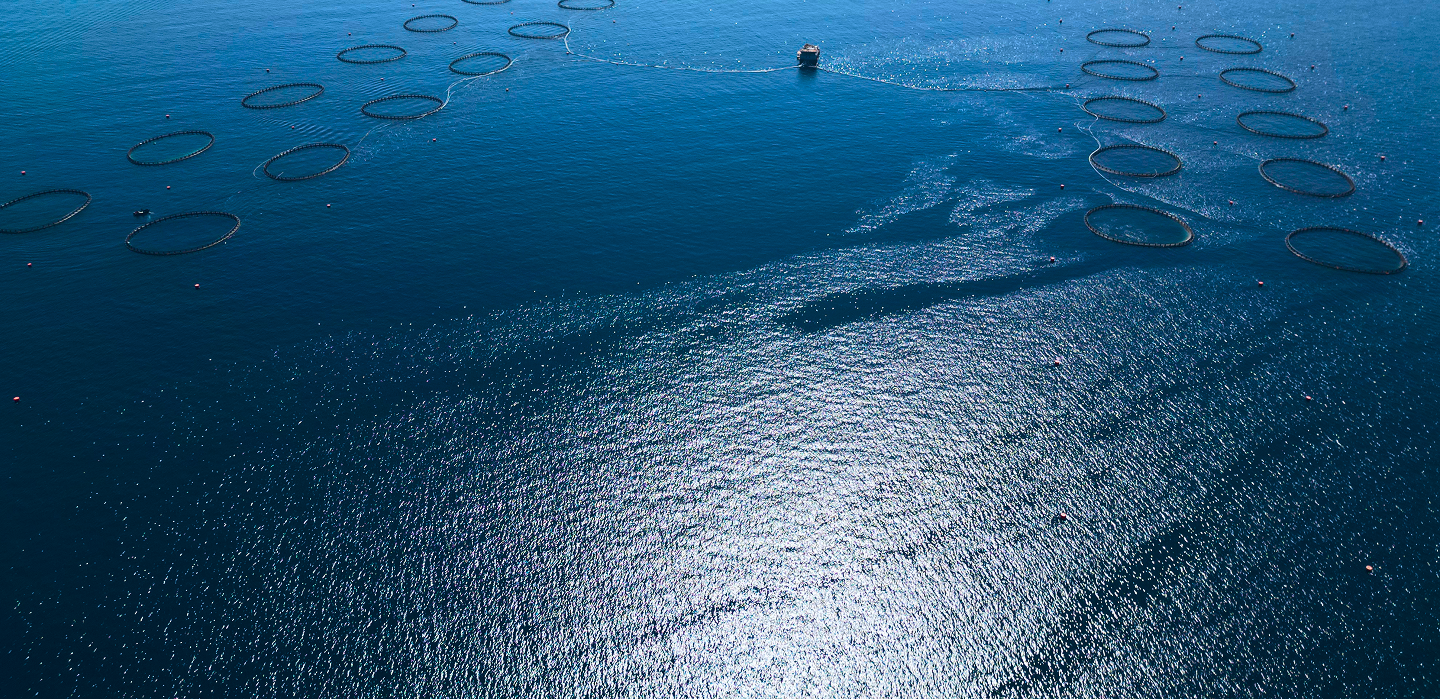
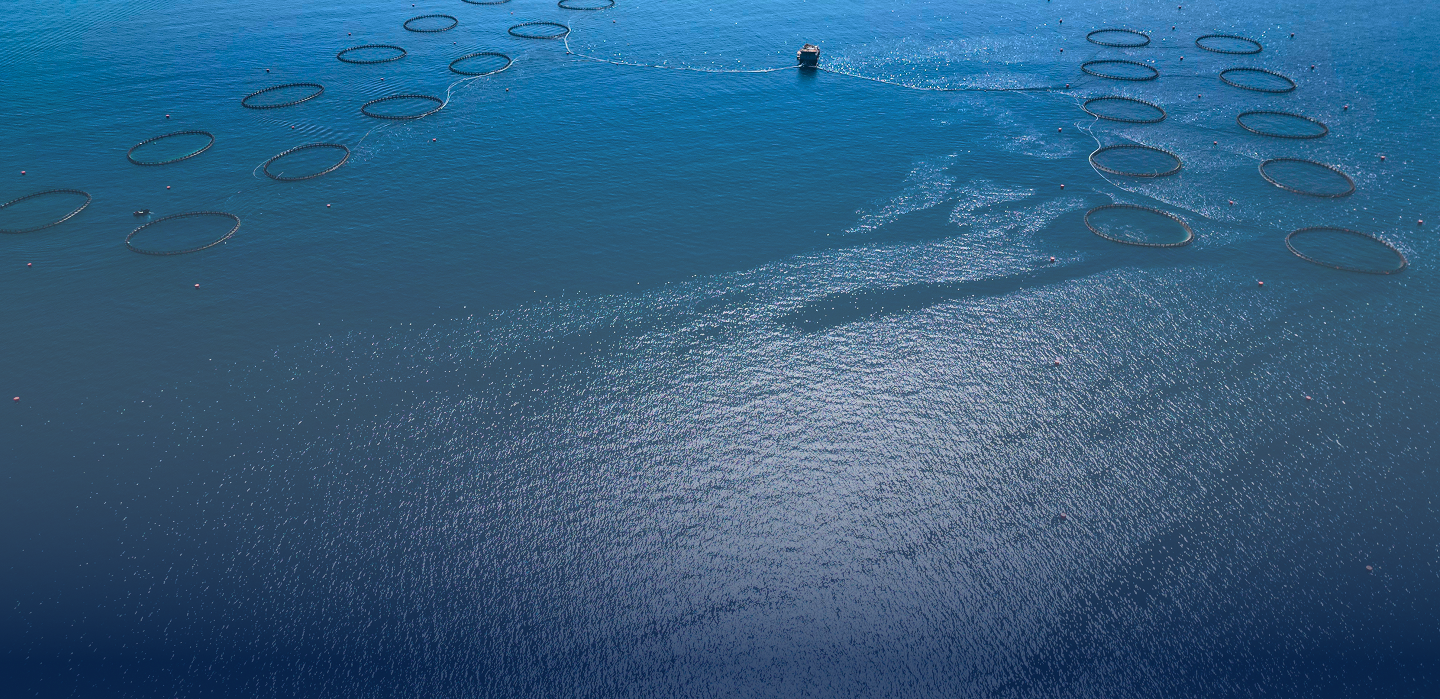
about

diff --git a/src/app/pages/about/about-hero-section/about-hero-section.component.scss b/src/app/pages/about/about-hero-section/about-hero-section.component.scss
@@ -1,13 +1,8 @@
 @import '../../../../styles/abstracts/variables';
 
 section {
-  background: linear-gradient(0deg, rgb(1, 30, 46), rgb(255 255 255 / 10%), rgba(0, 0, 0, 0.5)),
-    url(/images/about/bg.png);
-  background-repeat: no-repeat;
-  background-size: cover;
-  height: 600px;
+  height: 607px;
   width: 100%;
-  font-family: $font-bold;
 
   .text-container {
 
@@ -24,43 +19,32 @@ section {
 
   .wrapper {
     @media (max-width:550px) {
-      h1 {
+      h2 {
         font-size: 2rem;
+        font-family: $font-bold;
+      }
+    }
 
+    .section-body {
+      img {
+        width: 110px;
+        height: 110px;
       }
 
       p {
-        letter-spacing: 13px !important;
+        word-wrap: 1rem;
+        font-size: 1.2rem;
       }
     }
   }
 
   h1 {
-    font-size: 3.2rem;
+    font-size: 2rem;
     line-height: 1.5;
+    background-color: $dark-blue-color;
+    padding-inline: 1.1rem;
+    padding-block: .6rem;
+    border-radius: 2.5rem;
   }
 
-  .translate-btns {
-    position: relative;
-
-    button {
-      background-color: transparent;
-      color: white;
-      border-radius: 2rem;
-    }
-
-    button.choosen-btn {
-      background-color: white;
-      color: $red-color;
-      border-radius: 2rem;
-      width: 25%;
-    }
-
-    .splitter {
-      width: 1px;
-      height: 30px;
-      margin-inline-start: 11px;
-      background-color: white;
-    }
-  }
 }

diff --git a/src/app/pages/about/about.component.ts b/src/app/pages/about/about.component.ts
@@ -1,15 +1,33 @@
-import { Component, OnInit } from '@angular/core';
+import { Component, inject, OnInit } from '@angular/core';
 import { AboutHeroSectionComponent } from "./about-hero-section/about-hero-section.component";
+import { HeaderComponent } from "../../shared-ui/components/header/header.component";
+import { VisionComponent } from "./vision/vision.component";
+import { AboutService } from './about.service';
+import { aboutSectionModel } from '../../models/aboutSection.model';
 
 @Component({
   selector: 'app-about',
   standalone: true,
-  imports: [AboutHeroSectionComponent],
+  imports: [AboutHeroSectionComponent, HeaderComponent, VisionComponent],
   templateUrl: './about.component.html',
   styleUrl: './about.component.scss'
 })
-export class AboutComponent implements OnInit {
-  ngOnInit(): void {
+export class AboutComponent {
+  constructor() {
+
     localStorage.setItem("appLanguage", "ar")
+  }
+  _aboutService = inject(AboutService)
+  aboutSectionData: aboutSectionModel[] = []
+  ngOnInit(): void {
+    this.getAboutSectionData()
+  }
+  getAboutSectionData() {
+    return this._aboutService.getAboutData().subscribe(res => {
+      this.aboutSectionData = res;
+      console.log(res);
+      console.log(this.aboutSectionData);
+
+    })
   }
 }

diff --git a/src/app/pages/home/about-section/about-section.component.ts b/src/app/pages/home/about-section/about-section.component.ts
@@ -8,6 +8,7 @@ import { HttpClient } from '@angular/common/http';
 import { CommonModule } from '@angular/common';
 import { Observable, Subject, takeUntil } from 'rxjs';
 import { FormsModule } from '@angular/forms';
+import { AboutService } from '../../about/about.service';
 
 @Component({
   selector: 'app-about-section',
@@ -24,15 +25,15 @@ export class AboutSectionComponent implements OnInit, OnDestroy {
   aboutSectionData: aboutSectionModel[] = []
   _http = inject(HttpClient)
   _apiService = inject(ApiService)
+  _aboutService = inject(AboutService)
   _langService = inject(LangService)
   // ____________________________________
   getAboutSectionData() {
-    return this._http.get<any>(`${this.url}${this.endPoint}`).subscribe(res => {
+    return this._aboutService.getAboutData().subscribe(res => {
       this.aboutSectionData = res;
       console.log(this.aboutSectionData);
 
-    },
-    );
+    })
   }
   ngOnInit(): void {
     this._langService.langChanged$

diff --git a/src/app/pages/about/about-hero-section/about-hero-section.component.html b/src/app/pages/about/about-hero-section/about-hero-section.component.html
@@ -2,10 +2,20 @@
   class="text-white d-flex flex-column justify-content-center align-items-center"
 >
   <div class="col-12 text-container">
-    <div class="wrapper">
-      <div class="col-12 mb-4">
+    <div
+      class="wrapper d-flex flex-column justify-content-center align-items-center"
+    >
+      <div class="col-12 mb-4 d-flex justify-content-center align-items-center">
         <h1>نبذة عن الشركة</h1>
       </div>
+      @if(heroSectionData().length){
+      <div
+        class="section-body col-12 mb-4 w-50 d-flex justify-content-center align-items-center"
+      >
+        <img src="/images/about/whale.png" alt="whale" class="mx-2" />
+        <p class="w-75 m-0">{{ heroSectionData()[0].About }}</p>
+      </div>
+      }
     </div>
   </div>
 </section>

diff --git a/src/app/pages/about/about-hero-section/about-hero-section.component.ts b/src/app/pages/about/about-hero-section/about-hero-section.component.ts
@@ -1,4 +1,6 @@
-import { Component } from '@angular/core';
+import { Component, inject, input, OnInit } from '@angular/core';
+import { AboutService } from '../about.service';
+import { aboutSectionModel } from '../../../models/aboutSection.model';
 
 @Component({
   selector: 'app-about-hero-section',
@@ -8,5 +10,7 @@ import { Component } from '@angular/core';
   styleUrl: './about-hero-section.component.scss'
 })
 export class AboutHeroSectionComponent {
+  _aboutService = inject(AboutService)
+  heroSectionData = input<aboutSectionModel[]>([])
 
 }

diff --git a/src/app/pages/about/about.service.ts b/src/app/pages/about/about.service.ts
@@ -1,0 +1,19 @@
+import { HttpClient } from '@angular/common/http';
+import { inject, Injectable } from '@angular/core';
+import { environment } from '../../../environments/environment';
+import { aboutSectionModel } from '../../models/aboutSection.model';
+
+@Injectable({
+  providedIn: 'root'
+})
+export class AboutService {
+  _http = inject(HttpClient)
+  url: string = environment.apiUrl
+  endPoint: string = "API/AboutUs/Get"
+  constructor() {
+
+  }
+  getAboutData() {
+    return this._http.get<any>(`${this.url}${this.endPoint}`)
+  }
+}

diff --git a/src/app/pages/about/about.component.scss b/src/app/pages/about/about.component.scss
@@ -1,0 +1,11 @@
+@import '../../../styles/abstracts/variables';
+
+section {
+  background: linear-gradient(0deg, rgb(1, 30, 46), rgb(255 255 255 / 10%), rgba(0, 0, 0, 0.5)),
+    url(/images/about/bg.png);
+  background-repeat: no-repeat;
+  background-size: cover;
+  height: 100vh;
+  width: 100%;
+  font-family: $font-bold;
+}

diff --git a/src/app/pages/home/home.component.html b/src/app/pages/home/home.component.html
@@ -1,5 +1,5 @@
 <div class="mx-lg-5 position-relative">
-  <!-- <app-header class="position-relative"></app-header> -->
+  <app-header class="position-relative"></app-header>
   <app-hero-section class="position-relative"></app-hero-section>
 </div>
 <div class="position-relative">

diff --git a/src/app/pages/about/about.component.html b/src/app/pages/about/about.component.html
@@ -1,1 +1,7 @@
-<app-about-hero-section></app-about-hero-section>
+<app-header class="position-relative"></app-header>
+<section>
+  <app-about-hero-section
+    [heroSectionData]="aboutSectionData"
+  ></app-about-hero-section>
+  <app-vision></app-vision>
+</section>

diff --git a/src/app/pages/about/vision/vision.component.ts b/src/app/pages/about/vision/vision.component.ts
@@ -1,0 +1,12 @@
+import { Component } from '@angular/core';
+
+@Component({
+  selector: 'app-vision',
+  standalone: true,
+  imports: [],
+  templateUrl: './vision.component.html',
+  styleUrl: './vision.component.scss'
+})
+export class VisionComponent {
+
+}

diff --git a/src/styles/abstracts/_variables.scss b/src/styles/abstracts/_variables.scss
@@ -4,4 +4,5 @@ $sky-color: #F6F8FF;
 $red-color: #DB222E;
 $dark-red: #751219;
 $font-bold: "ge-dinar-bold";
+$font-regular: "ge-dinar-regular";
 $font-bold-en: "nunito-bold";

diff --git a/src/app/app.component.html b/src/app/app.component.html
@@ -1,2 +1,2 @@
-<app-header class="position-relative"></app-header>
+<!-- <app-header class="position-relative"></app-header> -->
 <router-outlet />
